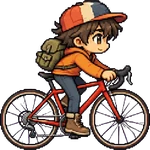
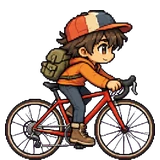
地図上のキャンプ地の移動を、歩きから自転車に乗った絵に変更（7種のアバターすべてに乗車2コマを追加。座る・寝る絵はそのまま）
Claude-Session: https://claude.ai/code/session_01N9UH7aPas3bYDXNeJrASUj

diff --git a/index.html b/index.html
@@ -1157,7 +1157,7 @@ function renderMap(){const svg=$('map');const mk=JSON.stringify([S.loc,S.sel,S.v
    +put('bike_'+S.bike,344,406,.26)
    +(S.gear.fire&&S.gear.fire!=='fire4'?fireFx(S.gear.fire):'')+`</g>`
    +(S.parts.includes('drone')?`<g class="drone">${put('part_drone',300,392,.15)}</g>`:'');
-  s+=`<g id="hero" style="pointer-events:none"><ellipse id="hs" cy="0" ry="1.8" fill="#000" opacity=".28"/><g id="hf">${HFR.map(k=>`<image id="hi_${k}" href="${heroSrc(k)}" width="${HDIM[k[0]][0]*HK}" height="${HDIM[k[0]][1]*HK}" style="display:none"/>`).join('')}</g><text id="hz1" style="font-size:6px;fill:#fff;paint-order:stroke;stroke:#234;stroke-width:1.5px">z</text><text id="hz2" style="font-size:5px;fill:#fff;paint-order:stroke;stroke:#234;stroke-width:1.5px">z</text></g>`
+  s+=`<g id="hero" style="pointer-events:none"><ellipse id="hs" cy="0" ry="1.8" fill="#000" opacity=".28"/><g id="hf">${HFR.map(k=>`<image id="hi_${k}" href="${heroSrc(k)}" width="${HDIM[k[0]][0]*hk(k)}" height="${HDIM[k[0]][1]*hk(k)}" style="display:none"/>`).join('')}</g><text id="hz1" style="font-size:6px;fill:#fff;paint-order:stroke;stroke:#234;stroke-width:1.5px">z</text><text id="hz2" style="font-size:5px;fill:#fff;paint-order:stroke;stroke:#234;stroke-width:1.5px">z</text></g>`
    +(isHam(S.gear.shelter)?hamFront(sk[S.gear.shelter],S.gear.shelter):'')+(isHam(S.gear.shelter)&&S.gear.tarp==='tp2'?tp2Pole(252+(tf[2]||0),tf[1],tf[0],tf[3]||1):'')
    +(hasTent?zzzFx(tpos.by-SPR['shelter_'+S.gear.shelter][1]*tpos.k+(S.gear.shelter==='sh5'?10:1),tpos.x-252):'')
    +(chim?chim.smoke:'');svg.innerHTML=s;HLAST=null;drawHero();}
@@ -1188,20 +1188,21 @@ function hamBody(k,id){const d=[481,185],w=d[0]*k,hh=d[1]*k,x=252-w/2,y=408-hh;/
 function hamFront(k,id){const d=[481,185],w=d[0]*k,hh=d[1]*k,x=252-w/2,y=408-hh;
   return `<clipPath id="hamclip"><rect x="${(x+HAMF.x0*k).toFixed(1)}" y="${(y+HAMF.y0*k).toFixed(1)}" width="${((HAMF.x1-HAMF.x0)*k).toFixed(1)}" height="${(hh-HAMF.y0*k).toFixed(1)}"/></clipPath><image id="hamf" href="img/shelter_${id}.webp" x="${x.toFixed(1)}" y="${y.toFixed(1)}" width="${w.toFixed(1)}" height="${hh.toFixed(1)}" clip-path="url(#hamclip)" style="display:none;pointer-events:none"/>`;}
 // ---- ドット絵の主人公：歩く／座って焚き火／寝る ----
-const HDIM={w:[90,141],s:[96,132],z:[162,78]},HK=.26;
+const HDIM={w:[90,141],s:[96,132],z:[162,78],r:[160,160]},HK=.26,HKR=.23;// r=自転車に乗った絵（キャンプ地を走り回る）。歩きの絵(w)は今は使わず、読み込めない場合の予備として残す
+const hk=k=>k[0]==='r'?HKR:HK;
 const HERO={ph:36,mode:'sit',x:254,y:426,dir:1,t:20,f:0,goal:null,ham:false,tent:false};
 const HAM={x:252,y:399};// ハンモックで寝るときの位置（布のたるみの中央）
-function heroImg(){const f=HERO.f,m=HERO.mode;return m==='walk'?'w'+(1+f%4):m==='sit'?'s'+(f%10<6?1:2):'z'+(f%4<2?1:2);}
+function heroImg(){const f=HERO.f,m=HERO.mode;return m==='walk'?'r'+(1+f%2):m==='sit'?'s'+(f%10<6?1:2):'z'+(f%4<2?1:2);}
 function heroPick(){const r=Math.random();
   if(r<.4)HERO.goal={x:215+Math.random()*90,mode:'walk',y:426};
   else if(r<.7)HERO.goal={x:254,mode:'sit',y:426};
   else{const sh=S&&S.gear&&S.gear.shelter;
     HERO.goal=isHam(sh)?{x:HAM.x,mode:'sleep',y:HAM.y,ham:true}:(sh==='sh2'||sh==='sh3'||sh==='sh4'||sh==='sh5')?{x:252,mode:'sleep',y:416,tent:true}:{x:240,mode:'sleep',y:416};}
   HERO.mode='walk';HERO.y=426;HERO.ham=false;HERO.tent=false;}
-const HFR=['w1','w2','w3','w4','s1','s2','z1','z2'];
+const HFR=['r1','r2','w1','w2','w3','w4','s1','s2','z1','z2'];
 HFR.forEach(k=>{const i=new Image();i.src='img/hero_'+k+'.webp';});
 let HLAST=null;
-function drawHero(){if(!$('hero'))return;const k=heroImg(),d=HDIM[k[0]],w=d[0]*HK,hh=d[1]*HK;
+function drawHero(){if(!$('hero'))return;const k=heroImg(),d=HDIM[k[0]],w=d[0]*hk(k),hh=d[1]*hk(k);
   const flip=HERO.dir<0&&HERO.mode==='walk',tx=HERO.x-w/2,ty=HERO.y-hh;
   if(HLAST!==k){if(HLAST&&$('hi_'+HLAST))$('hi_'+HLAST).style.display='none';$('hi_'+k).style.display='';HLAST=k;}
   const im=$('hi_'+k);im.setAttribute('x',flip?-(tx+w):tx);im.setAttribute('y',ty);im.setAttribute('transform',flip?'scale(-1 1)':'');
@@ -1819,7 +1820,7 @@ addEventListener('pagehide',save);
 // 開きっぱなしのタブが古いコードのまま保存し直して、新しい保存項目を失うのを防ぐ。
 // 実行中のコードに埋め込んだ版の識別子 APP_V と、いま配信されている index.html の APP_V を比べる（最初に取れた配信内容を「実行中の版」の代わりにしない）。
 // ★ APP_V は index.html の内容から計算する。index.html を変えたら `node qa/stamp.cjs` で更新する（忘れると監査テストが失敗する）。
-const APP_V='7bef57f11624';
+const APP_V='25a7e3a961f2';
 // 旅・戦闘・結果画面（INTRIP）の間は、save() が保存を見送るので、再読み込みすると進行が巻き戻る。旅が終わったあとも trip / B には前回の値が残るため、これらは見ない
 const UPD={pending:'',busy:false,scheduled:false,last:0,every:600000,quiet:600000,timeout:15000,reloadedAt:0,note:null,timer:0,
  safe:()=>!INTRIP,

diff --git a/qa/browser_review.py b/qa/browser_review.py
@@ -59,7 +59,7 @@ with sync_playwright() as pw:
   page.goto(BASE);page.evaluate("localStorage.removeItem('charicamp');sessionStorage.clear();qa.newGame(12);document.getElementById('ov-title').hidden=true;qa.render();")
  boot()
  rec('map_switch',page.evaluate('''()=>{const out=[];const $=id=>document.getElementById(id);for(const a of qa.AVS){$('tab-log').click();$('btn-prof').click();document.querySelector('#av-list [data-av="'+a.id+'"]').click();$('prof-close').click();$('tab-map').click();out.push({id:a.id,href:$('hi_w1').getAttribute('href'),want:qa.heroSrc('w1')})}return out}'''))
- rec('map_geometry',page.evaluate('''()=>{const out=[];for(const a of qa.AVS){qa.S.avId=a.id;qa.renderMap();for(const mode of ['walk','sit','sleep'])for(const dir of [-1,1]){Object.assign(qa.HERO,{x:260,y:426,mode,dir,f:0,ham:false,tent:false});qa.drawHero();const k=mode==='walk'?'w1':mode==='sit'?'s1':'z1',im=document.getElementById('hi_'+k),d={id:a.id,mode,dir,x:+im.getAttribute('x'),bottom:+im.getAttribute('y') + +im.getAttribute('height'),transform:im.getAttribute('transform')};if(d.bottom!==426)throw Error('bottom');if((d.transform==='scale(-1 1)')!==(mode==='walk'&&dir<0))throw Error('flip');out.push(d)}}return {passed:out.length}}'''))
+ rec('map_geometry',page.evaluate('''()=>{const out=[];for(const a of qa.AVS){qa.S.avId=a.id;qa.renderMap();for(const mode of ['walk','sit','sleep'])for(const dir of [-1,1]){Object.assign(qa.HERO,{x:260,y:426,mode,dir,f:0,ham:false,tent:false});qa.drawHero();const k=mode==='walk'?'r1':mode==='sit'?'s1':'z1',im=document.getElementById('hi_'+k),d={id:a.id,mode,dir,x:+im.getAttribute('x'),bottom:+im.getAttribute('y') + +im.getAttribute('height'),transform:im.getAttribute('transform')};if(d.bottom!==426)throw Error('bottom');if((d.transform==='scale(-1 1)')!==(mode==='walk'&&dir<0))throw Error('flip');out.push(d)}}return {passed:out.length}}'''))
  for fields in [{'avId':'av_ninja'},{'av':1},{'av':3},{}]:
   page.evaluate("fields=>{const b=JSON.parse(qa.pack());delete b.avId;delete b.av;localStorage.charicamp=JSON.stringify({...b,...fields})}",fields);page.reload()
   rec('load_map_'+json.dumps(fields),page.evaluate("({avId:qa.S.avId,href:document.getElementById('hi_w1').getAttribute('href')})"))
